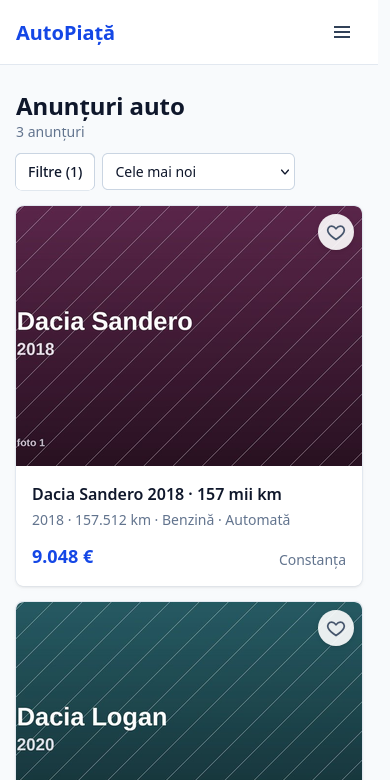
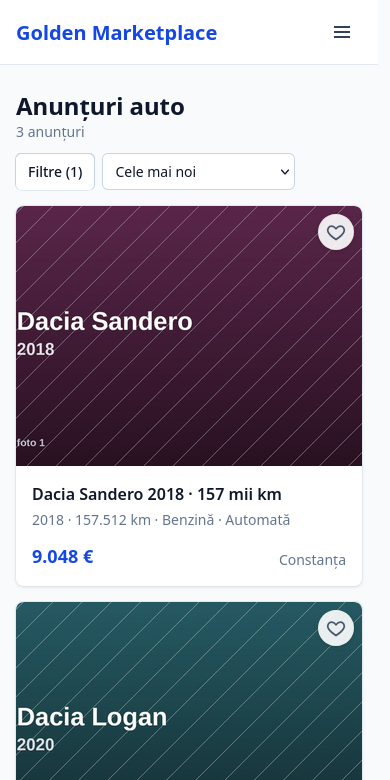
Rename the app to Golden Marketplace
- app name lives in one constant (src/lib/brand.ts) used by the navbar
  and page titles; also index.html, READMEs, API title and e2e checks
- the longer name no longer fits next to all links on tablets: the
  hamburger menu now covers widths below 1024px and nav items never wrap
- README screenshots retaken with the new name

Changed region(s): [[0.0308, 0.0308, 0.5538, 0.0615]]

diff --git a/frontend/src/components/Navbar.tsx b/frontend/src/components/Navbar.tsx
@@ -3,9 +3,10 @@ import { Link, NavLink, useNavigate } from 'react-router-dom'
 
 import { useAuth } from '../context/AuthContext'
 import { useRealtime } from '../context/RealtimeContext'
+import { APP_NAME } from '../lib/brand'
 
 const linkClass = ({ isActive }: { isActive: boolean }) =>
-  `block rounded-md px-3 py-2 text-sm font-medium ${
+  `block rounded-md px-3 py-2 text-sm font-medium whitespace-nowrap ${
     isActive ? 'bg-blue-50 text-blue-700' : 'text-slate-700 hover:bg-slate-100'
   }`
 
@@ -43,19 +44,19 @@ export default function Navbar() {
       </NavLink>
       <NavLink to="/profile" className={linkClass} onClick={close} title={user.full_name}>
         {/* Un nume lung nu are voie să împingă butoanele pe două rânduri */}
-        <span className="block truncate md:max-w-[9rem] lg:max-w-[14rem]">{user.full_name}</span>
+        <span className="block truncate lg:max-w-[10rem] xl:max-w-[14rem]">{user.full_name}</span>
       </NavLink>
       <button
         type="button"
         onClick={handleLogout}
-        className="block w-full rounded-md px-3 py-2 text-left text-sm font-medium text-slate-700 hover:bg-slate-100 md:w-auto"
+        className="block w-full rounded-md px-3 py-2 text-left text-sm font-medium text-slate-700 hover:bg-slate-100 lg:w-auto"
       >
         Ieșire
       </button>
       <Link
         to="/listings/new"
         onClick={close}
-        className="block rounded-md bg-blue-600 px-4 py-2 text-center text-sm font-semibold text-white hover:bg-blue-700"
+        className="block rounded-md bg-blue-600 px-4 py-2 text-center text-sm font-semibold whitespace-nowrap text-white hover:bg-blue-700"
       >
         + Adaugă anunț
       </Link>
@@ -78,17 +79,17 @@ export default function Navbar() {
   return (
     <header className="sticky top-0 z-20 border-b border-slate-200 bg-white">
       <nav className="mx-auto flex max-w-6xl items-center justify-between px-4 py-3">
-        <Link to="/" className="text-xl font-bold text-blue-700" onClick={close}>
-          AutoPiață
+        <Link to="/" className="text-xl font-bold whitespace-nowrap text-blue-700" onClick={close}>
+          {APP_NAME}
         </Link>
 
         {/* Cât timp verificăm sesiunea nu afișăm nimic, ca să nu clipească „Autentificare” */}
         {!initializing && (
           <>
-            <div className="hidden items-center gap-1 md:flex">{links}</div>
+            <div className="hidden items-center gap-1 lg:flex">{links}</div>
             <button
               type="button"
-              className="relative rounded-md p-2 text-slate-700 hover:bg-slate-100 md:hidden"
+              className="relative rounded-md p-2 text-slate-700 hover:bg-slate-100 lg:hidden"
               onClick={() => setOpen((v) => !v)}
               aria-label="Meniu"
               aria-expanded={open}
@@ -102,7 +103,7 @@ export default function Navbar() {
         )}
       </nav>
 
-      {open && <div className="space-y-1 border-t border-slate-200 px-4 py-3 md:hidden">{links}</div>}
+      {open && <div className="space-y-1 border-t border-slate-200 px-4 py-3 lg:hidden">{links}</div>}
     </header>
   )
 }

diff --git a/frontend/src/lib/usePageTitle.ts b/frontend/src/lib/usePageTitle.ts
@@ -1,8 +1,10 @@
 import { useEffect } from 'react'
 
-/** Titlul din tab-ul browserului: „Anunțurile mele · AutoPiață”. */
+import { APP_NAME } from './brand'
+
+/** Titlul din tab-ul browserului: „Anunțurile mele · Golden Marketplace”. */
 export function usePageTitle(title: string | null | undefined) {
   useEffect(() => {
-    document.title = title ? `${title} · AutoPiață` : 'AutoPiață'
+    document.title = title ? `${title} · ${APP_NAME}` : APP_NAME
   }, [title])
 }

diff --git a/frontend/index.html b/frontend/index.html
@@ -4,7 +4,7 @@
     <meta charset="UTF-8" />
     <link rel="icon" type="image/svg+xml" href="/favicon.svg" />
     <meta name="viewport" content="width=device-width, initial-scale=1.0" />
-    <title>AutoPiață</title>
+    <title>Golden Marketplace</title>
   </head>
   <body>
     <div id="root"></div>

diff --git a/frontend/src/lib/brand.ts b/frontend/src/lib/brand.ts
@@ -1,0 +1,2 @@
+// Numele aplicației, într-un singur loc (navbar, titlul tab-ului)
+export const APP_NAME = 'Golden Marketplace'

diff --git a/backend/app/core/config.py b/backend/app/core/config.py
@@ -15,7 +15,7 @@ class Settings(BaseSettings):
         extra="ignore",
     )
 
-    PROJECT_NAME: str = "Car Marketplace API"
+    PROJECT_NAME: str = "Golden Marketplace API"
     API_V1_PREFIX: str = ""
 
     DATABASE_URL: str = "postgresql+psycopg://carmarket:carmarket@localhost:5432/carmarket"

diff --git a/README.md b/README.md
@@ -1,4 +1,4 @@
-# AutoPiață — marketplace de mașini
+# Golden Marketplace — marketplace de mașini
 
 Proiect de laborator: o platformă unde utilizatorii publică anunțuri de vânzare
 auto cu poze, iar vizitatorii le caută, le filtrează și le salvează la favorite.

diff --git a/frontend/README.md b/frontend/README.md
@@ -1,4 +1,4 @@
-# Frontend AutoPiață
+# Frontend Golden Marketplace
 
 React + TypeScript + Vite + Tailwind CSS. Pornire, arhitectură și decizii:
 vezi [README-ul principal](../README.md).
